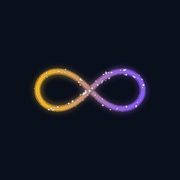
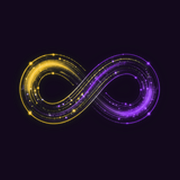
로고를 손으로 다시 그린 버전 대신, 코어싱크 원본 이미지 픽셀을 그대로 가져와서 색상(hue)만 금색/보라색으로 치환하는 방식으로 교체 - 모양 자체를 새로 그리지 말고 색만 바꾸라는 지적 반영(글자는 "COREBOX"라 재사용이 안 돼서 같은 색상값으로 폰트만 새로 그림). 집계표/서류목록을 연도 우선이 아니라 문서 종류 우선으로 묶어서 부가세는 부가세끼리, 소득금액증명은 소득금액증명끼리 모아서 보여주게 변경
Claude-Session: https://claude.ai/code/session_01KvdDNG39ZNErk4kcAfZdEz

Changed region(s): [[0.0833, 0.2778, 0.8889, 0.6944]]

diff --git a/corebox/static/js/app.js b/corebox/static/js/app.js
@@ -47,21 +47,33 @@
       area.innerHTML = `<div class="empty-hint">집계용 문서 종류를 적은 서류가 아직 없습니다.</div>`;
       return;
     }
-    const rows = state.aggregate.map((r) => `
-      <tr>
-        <td>${r.year}</td>
-        <td>${escapeHtml(r.doc_type)}</td>
-        <td>${r.income_total !== null ? fmt(r.income_total) : "-"}</td>
-        <td>${r.taxable_total !== null ? fmt(r.taxable_total) : "-"}</td>
-        <td>${r.amount_total !== null ? fmt(r.amount_total) : "-"}</td>
-      </tr>
-    `).join("");
-    area.innerHTML = `
-      <table class="agg-table">
-        <thead><tr><th>연도</th><th>문서 종류</th><th>수입금액</th><th>소득금액</th><th>금액</th></tr></thead>
-        <tbody>${rows}</tbody>
-      </table>
-    `;
+    // 같은 문서 종류끼리(부가세는 부가세끼리, 소득금액증명은 소득금액증명끼리)
+    // 표를 따로 만든다 - 연도가 섞인 한 표에 문서종류별로 끼어있으면 비교하기
+    // 불편하다는 지적 반영. 집계 결과는 이미 doc_type, year DESC 순으로 온다.
+    const byType = new Map();
+    for (const r of state.aggregate) {
+      if (!byType.has(r.doc_type)) byType.set(r.doc_type, []);
+      byType.get(r.doc_type).push(r);
+    }
+    let html = "";
+    for (const [docType, rows] of byType) {
+      const trs = rows.map((r) => `
+        <tr>
+          <td>${r.year}</td>
+          <td>${r.income_total !== null ? fmt(r.income_total) : "-"}</td>
+          <td>${r.taxable_total !== null ? fmt(r.taxable_total) : "-"}</td>
+          <td>${r.amount_total !== null ? fmt(r.amount_total) : "-"}</td>
+        </tr>
+      `).join("");
+      html += `
+        <div class="year-group-title">${escapeHtml(docType)}</div>
+        <table class="agg-table">
+          <thead><tr><th>연도</th><th>수입금액</th><th>소득금액</th><th>금액</th></tr></thead>
+          <tbody>${trs}</tbody>
+        </table>
+      `;
+    }
+    area.innerHTML = html;
   }
 
   function renderDocuments() {
@@ -70,17 +82,19 @@
       area.innerHTML = `<div class="empty-hint">아직 등록된 서류가 없습니다.</div>`;
       return;
     }
+    // 서류 목록도 집계표랑 같은 기준(문서 종류)으로 먼저 묶고, 그 안에서
+    // 연도순으로 보여준다 - 부가세끼리, 소득금액증명끼리 모여있게.
     const groups = new Map();
     for (const d of state.documents) {
-      const key = d.year ? String(d.year) : "연도 없음";
+      const key = d.doc_type || "기타";
       if (!groups.has(key)) groups.set(key, []);
       groups.get(key).push(d);
     }
     let html = "";
-    for (const [year, docs] of groups) {
-      html += `<div class="year-group-title">${escapeHtml(year)}</div>`;
+    for (const [docType, docs] of groups) {
+      html += `<div class="year-group-title">${escapeHtml(docType)}</div>`;
       for (const d of docs) {
-        const meta = [d.category, d.doc_type, d.period].filter(Boolean).join(" · ");
+        const meta = [d.year ? `${d.year}년` : "", d.period].filter(Boolean).join(" · ");
         const amounts = [
           d.income_amount !== null && d.income_amount !== undefined ? `수입 ${fmt(d.income_amount)}원` : "",
           d.taxable_income_amount !== null && d.taxable_income_amount !== undefined ? `소득 ${fmt(d.taxable_income_amount)}원` : "",

diff --git a/corebox/app.py b/corebox/app.py
@@ -249,7 +249,7 @@ def serialize_aggregate(conn):
            FROM documents
            WHERE doc_type != '' AND year IS NOT NULL
            GROUP BY year, doc_type
-           ORDER BY year DESC, doc_type"""
+           ORDER BY doc_type, year DESC"""
     ).fetchall()
     return [dict(r) for r in rows]
 
